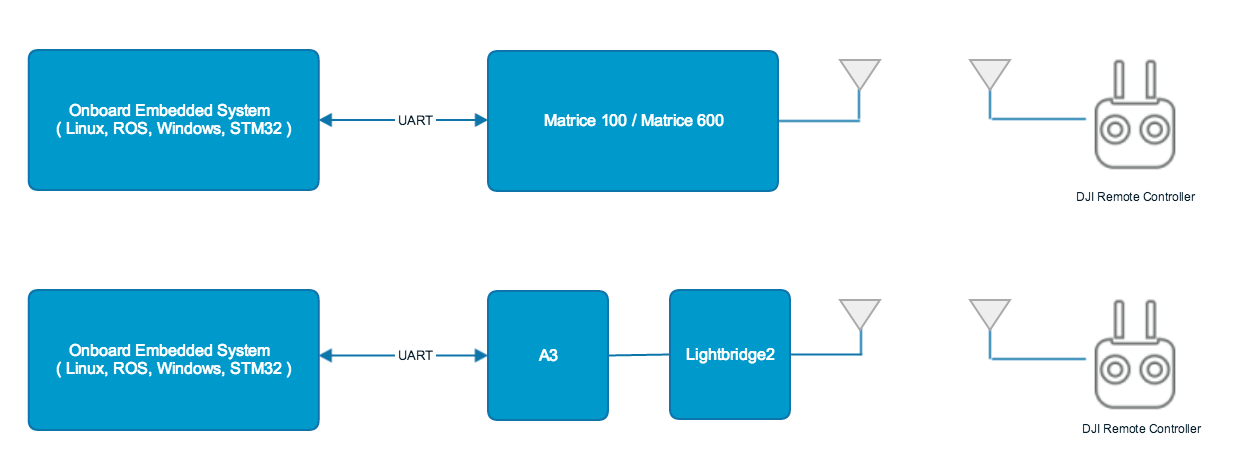
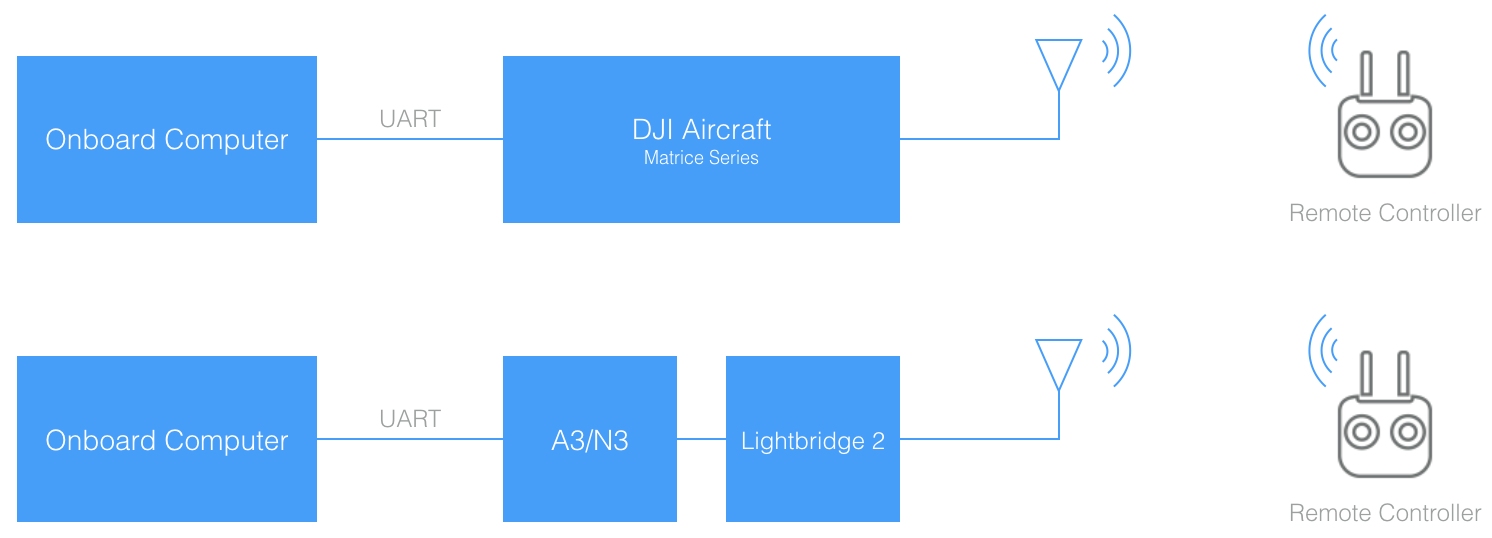
Hardware Setup Review

diff --git a/source/development-workflow/hardware-setup.md b/source/development-workflow/hardware-setup.md
@@ -5,31 +5,34 @@ version: 3.3
 keywords: [hardware setup，M100 UART Connector, A3 UART Connector, N3 UART]
 ---
 
-This guide will help you connect your onboard embedded system (OES) with the M100 vehicle, M600 vehicle, A3 or N3 flight controller. You may need to build or buy your own cable to connect your OES to a DJI product. Reference the M100 or A3/N3 UART connector diagrams below to build a cable to interface with your OES UART port. The M600 uses an A3 flight controller, which is accessable through the top cover.  See the M600 user manual for details.
+This guide will help you connect your Onboard Computer with the DJI aircraft (M100, M600, M600 Pro), or flight controller (A3, N3). 
 
-## Interface Details
-- The M100/600/A3/N3 UART electrical interface is 3.3 volt TTL.
-- You must ensure that your OES UART port is compatible to avoid damaging the flight controller. For example, RS-232 ports will need a level-shifting circuit.
-- The UART interface does not require power from the OES
+## General Setup
 
-
-## General Setup Instructions
-- If you are using an M100, M210 or M600 vehicle, you should assemble and familiarize yourself with flying the vehicle before attempting to proceed with OSDK development.
-- If you are using an A3/N3 flight controller with Lightbridge 2 and your own vehicle, then you should familiarize yourself with flying your vehicle before attempting to proceed with OSDK development.
-- Generically, you will be working with one of the setups in the following diagram:
+### Data
+The onboard computer communicates to the flight controller or DJI aircraft through a UART interface. Generally, you will be working with one of the setups in the below diagram:
 
 ![Hardware Setup](../images/common/GenericHWSetup.png)
 
-## Connecting Your Onboard Embedded System (OES)
+> Note the M600 and M600 Pro have an A3 flight controller underneath the top cover.
 
-- If you are using one of our supported platforms, we provide detailed instructions in our [Hardware Setup Guide](../hardware-setup/index.html).
-- The [Hardware Setup Guide](../hardware-setup/index.html) also lists the pin diagram for the API port on the [M100](../hardware-setup/index.html#M100-UART-Connector), the [A3/N3/M600](../hardware-setup/index.html#A3-UART-Connector) and the [M210](@todo) so that you may build your own cable compatible with your OES.
-- A3 flight controller can be accessed on the M600 (or M600 Pro) by pulling off the top-cover.
-- You can power your OES from your own battery or if you are using an M100/M600/M210, you can pull power from the vehicle bus. See your aircraft manual for details.
-- Secure your OES to the vehicle near the center of mass. Ensure that the total vehicle weight is within the maximum takeoff weight specificed for your vehicle.
+The next section details the UART specifications for different DJI products, and gives examples of how the onboard compute can be connected.
+
+### Power 
+
+Power can be drawn directly from the power rail on DJI aircraft. It's possible a DC-DC regulator will also be required to convert the voltage to the onboard computer's power input.
+
+If using a stand alone flight controller product, or if power is needed not just when the aircraft is on, then an external battery (with appropriate regulator) can be used.
+
+## UART 
+
+###Interface Details
+- The UART electrical interface for all OSDK compatible DJI aircraft and flight controllers is 3.3 volt TTL.
+- You must ensure that your onboard computer UART port operates at the same voltage to avoid damaging the flight controller. For example, RS-232 ports will need a level-shifting circuit.
+- The UART interface does not require power from the onboard computer.
 
 
-## UART Connectors
+### Connector Pinout
 
 #### M100
 
@@ -39,27 +42,29 @@ This guide will help you connect your onboard embedded system (OES) with the M10
 
 ![A3UARTConnector](../images/hardwaresetup/A3UARTPort.png) 
 
-**Note: Do NOT use the Vcc pin to power your own devices. You might damage your OES, A3/N3 or both.**
+**Note: Do NOT use the Vcc pin to power your own devices. You might damage your onboard computer, A3/N3 or both.**
 
-## Connecting to your OES
+## Connecting to your Onboard Computer
 
 #### M100 + Manifold
 
 The diagram below shows the hardware connection between an M100 and Manifold. Note that: 
+
 - UART cable is provided with the Manifold. 
 - M100 to PC connection can be used to run DJI Assistant 2. 
-- With DJI Assistant you can enable API, set baudrate and/or run the Simulator.
+- With DJI Assistant you can enable the OSDK API, set baud rate and/or run the Simulator.
 
 ![M100Manifold](../images/hardwaresetup/M100Manifold.png)
 
 #### M100 + PC/Linux machine
 
 The diagram below shows the hardware connection between an M100 and a PC or Linux machine. Note that: 
+
 - M100 UART cable is provided in the box and is also [sold](http://store.dji.com/product/matrice-100-uart-cable) separately. 
 - USB to TTL cable can be purchased on [Amazon](https://www.amazon.com/ADAFRUIT-INDUSTRIES-954-SERIAL-RASPBERRY/dp/B00DJUHGHI/ref=sr_1_5?s=electronics&ie=UTF8&qid=1466208644&sr=1-5&keywords=usb+to+ttl).
 - The two cables need to be connected on the TTL end to establish communication between M100 and PC/Linux. 
 - M100 to PC connection is used to run DJI Assistant 2. 
-- With DJI Assistant you can enable API, set baudrate and/or run the Simulator.
+- With DJI Assistant you can enable the OSDK API, set baud rate and/or run the Simulator.
 
 
 ![M100PCLinux](../images/hardwaresetup/M100PCLinux.png)
@@ -68,12 +73,13 @@ The diagram below shows the hardware connection between an M100 and a PC or Linu
 #### M100 + STM32
 
 The diagram below shows the hardware connection between an M100 and STM32. Note that: 
+
 - M100 UART cable is provided in the box and is also [sold](http://store.dji.com/product/matrice-100-uart-cable) separately. 
 - USB to TTL cable can be purchased on [Amazon](https://www.amazon.com/ADAFRUIT-INDUSTRIES-954-SERIAL-RASPBERRY/dp/B00DJUHGHI/ref=sr_1_5?s=electronics&ie=UTF8&qid=1466208644&sr=1-5&keywords=usb+to+ttl).
 - M100 UART cable connects to USART3 connector on STM32. 
 - USB-TTL cable connects to USART2 connector on STM32. 
 - PC is used for STM32 development. 
-- In the STM32 sample App, users can send commands and receive feedback on a Computer. 
+- In the STM32 sample App, users can send commands and receive feedback on the PC. 
 
 
 ![M100STM32](../images/hardwaresetup/M100STM32.png)
@@ -82,12 +88,13 @@ The diagram below shows the hardware connection between an M100 and STM32. Note 
 #### A3/N3/M600 + Manifold
 
 The diagram below shows the hardware connection between an A3/N3 and Manifold. Note that:
-- UART cable referenced in the image is a cable with 0.1 inch female headers on both sides going from Tx port on A3/N3 to Rx port on Manifold and vice-versa.
+
+- UART cable can be made using 0.1 inch female headers on both sides going from Tx port on A3/N3 to Rx port on Manifold and vice-versa.
 - Tx pin on Expansion I/O of the Manifold is pin 15. 
 - Rx pin on Expansion I/O of the Manifold is pin 13. 
 - Ground pin on Expansion I/O of the Manifold is pin 16. 
 - A3/N3 to PC connection is used to run DJI Assistant 2.
-- With DJI Assistant you can enable API, set baudrate and/or run the Simulator.
+- With DJI Assistant you can enable OSDK API, set baud rate and/or run the Simulator.
 
 ![A3Manifold](../images/hardwaresetup/A3N3_1.png)
 
@@ -95,9 +102,10 @@ The diagram below shows the hardware connection between an A3/N3 and Manifold. N
 #### A3/N3/M600 + PC/Linux machine
 
 The diagram below shows the hardware connection between an A3/N3 and a PC or Linux machine. Note that:
+
 - USB to TTL cable can be purchased on [Amazon](https://www.amazon.com/ADAFRUIT-INDUSTRIES-954-SERIAL-RASPBERRY/dp/B00DJUHGHI/ref=sr_1_5?s=electronics&ie=UTF8&qid=1466208644&sr=1-5&keywords=usb+to+ttl).
 - A3/N3 to PC connection is used to run DJI Assistant 2.
-- With DJI Assistant you can enable API, set baudrate and/or run the Simulator. 
+- With DJI Assistant you can enable OSDK API, set baud rate and/or run the Simulator. 
 
 ![A3PCLinux](../images/hardwaresetup/A3N3_2.png)
 
@@ -105,7 +113,8 @@ The diagram below shows the hardware connection between an A3/N3 and a PC or Lin
 #### A3/N3/M600 + STM32
 
 The diagram below shows the hardware connection between an A3/N3 and STM32. Note that:
-- UART cable referenced in the image is a cable with 0.1 inch female headers on both sides going from Tx port on A3/N3 to Rx port on the STM32 and vice-versa.
+
+- UART cable can be made using 0.1 inch female headers on both sides going from Tx port on A3/N3 to Rx port on the STM32 and vice-versa.
 - USB to TTL cable can be purchased on [Amazon](https://www.amazon.com/ADAFRUIT-INDUSTRIES-954-SERIAL-RASPBERRY/dp/B00DJUHGHI/ref=sr_1_5?s=electronics&ie=UTF8&qid=1466208644&sr=1-5&keywords=usb+to+ttl).
 - UART cable betweenn A3/N3 and STM32 connects to USART3 connector on STM32.
 - USB-TTL cable connects to USART2 connector on STM32. 

diff --git a/source/development-workflow/workflow-prereq.md b/source/development-workflow/workflow-prereq.md
@@ -5,16 +5,20 @@ version: 3.3
 keywords: [prerequisites, info, assistant, standalone]
 ---
 
-This SDK is for developers with:
+# Required
+To build an Onboard SDK based application the following are required:
 
-- programming experience in C++
-- embedded systems knowledge
-- a [compatible](../introduction/hardware-introduction.html) DJI vehicle/flight controller
-- your own Onboard Embedded System (OES) with an available TTL UART port.
+- Programming experience in C++
+- Experience with embedded systems might be needed for third party sensor or actuator integrations.
+- A [compatible](../introduction/hardware-introduction.html) DJI vehicle/flight controller
+- Your own Onboard Computer with an available TTL UART port.
     - For x86 platforms, we recommend small-form-factor PCs that can be powered from the aircraft's bus
-    - The [DJI Manifold](https://store.dji.com/product/manifold) is an excellent OES meant to harness the full potential of DJI OSDK
+    - The [DJI Manifold](https://store.dji.com/product/manifold) is an excellent computer meant to harness the full potential of DJI OSDK
     - Among embedded systems, we recommend the STM32F4 (and the Discovery board).
+- Software tools to build the SDK. See [Environment Setup](environment-setup.html) for each platform.
 - Windows PC/Mac to run the required software tools
-- an iOS or Android mobile device to run DJI Go
-    - Make sure you have an internet connection on your mobile device the first time you run your application
-- (optional) an iOS device to run the [Mobile-Onboard SDK Sample](https://github.com/dji-sdk/Mobile-OSDK-iOS-App) application, and a MacOS laptop with XCode 7 to compile and load this application
+- An iOS or Android mobile device to run DJI Go for first time application activation (requires internet connection)
+
+
+# Optional
+- An iOS device to run the [Mobile-Onboard SDK Sample](https://github.com/dji-sdk/Mobile-OSDK-iOS-App) application, and a MacOS laptop with XCode 7 to compile and load this application

diff --git a/source/introduction/onboard-sdk-introduction.md b/source/introduction/onboard-sdk-introduction.md
@@ -19,7 +19,7 @@ The SDK includes:
 
 DJI offers a Mobile SDK and an Onboard SDK.
 
-Both SDKs allow applications to control DJI aircraft, but are optimized for different compute platforms and applications. The Mobile SDK is designed for Mobile Devices (such as Android and iOS) that connect to the aircraft wirelessly through the remote controller. The Onboard SDK is designed for Linux Devices (and the STM32), and connects directly to the flight controller over a serial interface. 
+Both SDKs allow applications to control DJI aircraft, but are optimized for different compute platforms and applications. The Mobile SDK is designed for Mobile Devices (such as Android and iOS) that connect to the aircraft wirelessly through the remote controller. The Onboard SDK is designed for Linux computers (and the STM32), and connects directly to the flight controller over a serial interface. 
 
 The table below compares the two SDKs.
 
@@ -94,7 +94,7 @@ The table below compares the two SDKs.
 </table>
 </html>
 
-As the Mobile SDK is for ground based applications, and the Onboard SDK for aircraft based applications, both SDKs can be used simultaneously in a solution. Both SDKs have APIs that allow communication through the aircraft's wireless link and therefore data can be sent between the mobile and onboard devices.
+As the Mobile SDK is for ground based applications, and the Onboard SDK for aircraft based applications, both SDKs can be used simultaneously in a solution. Both SDKs have APIs that allow communication through the aircraft's wireless link and therefore data can be sent between the mobile and onboard computer.
 
 ### When to use the Onboard SDK
 The reasons you should consider using the Onboard SDK are if you want to:
